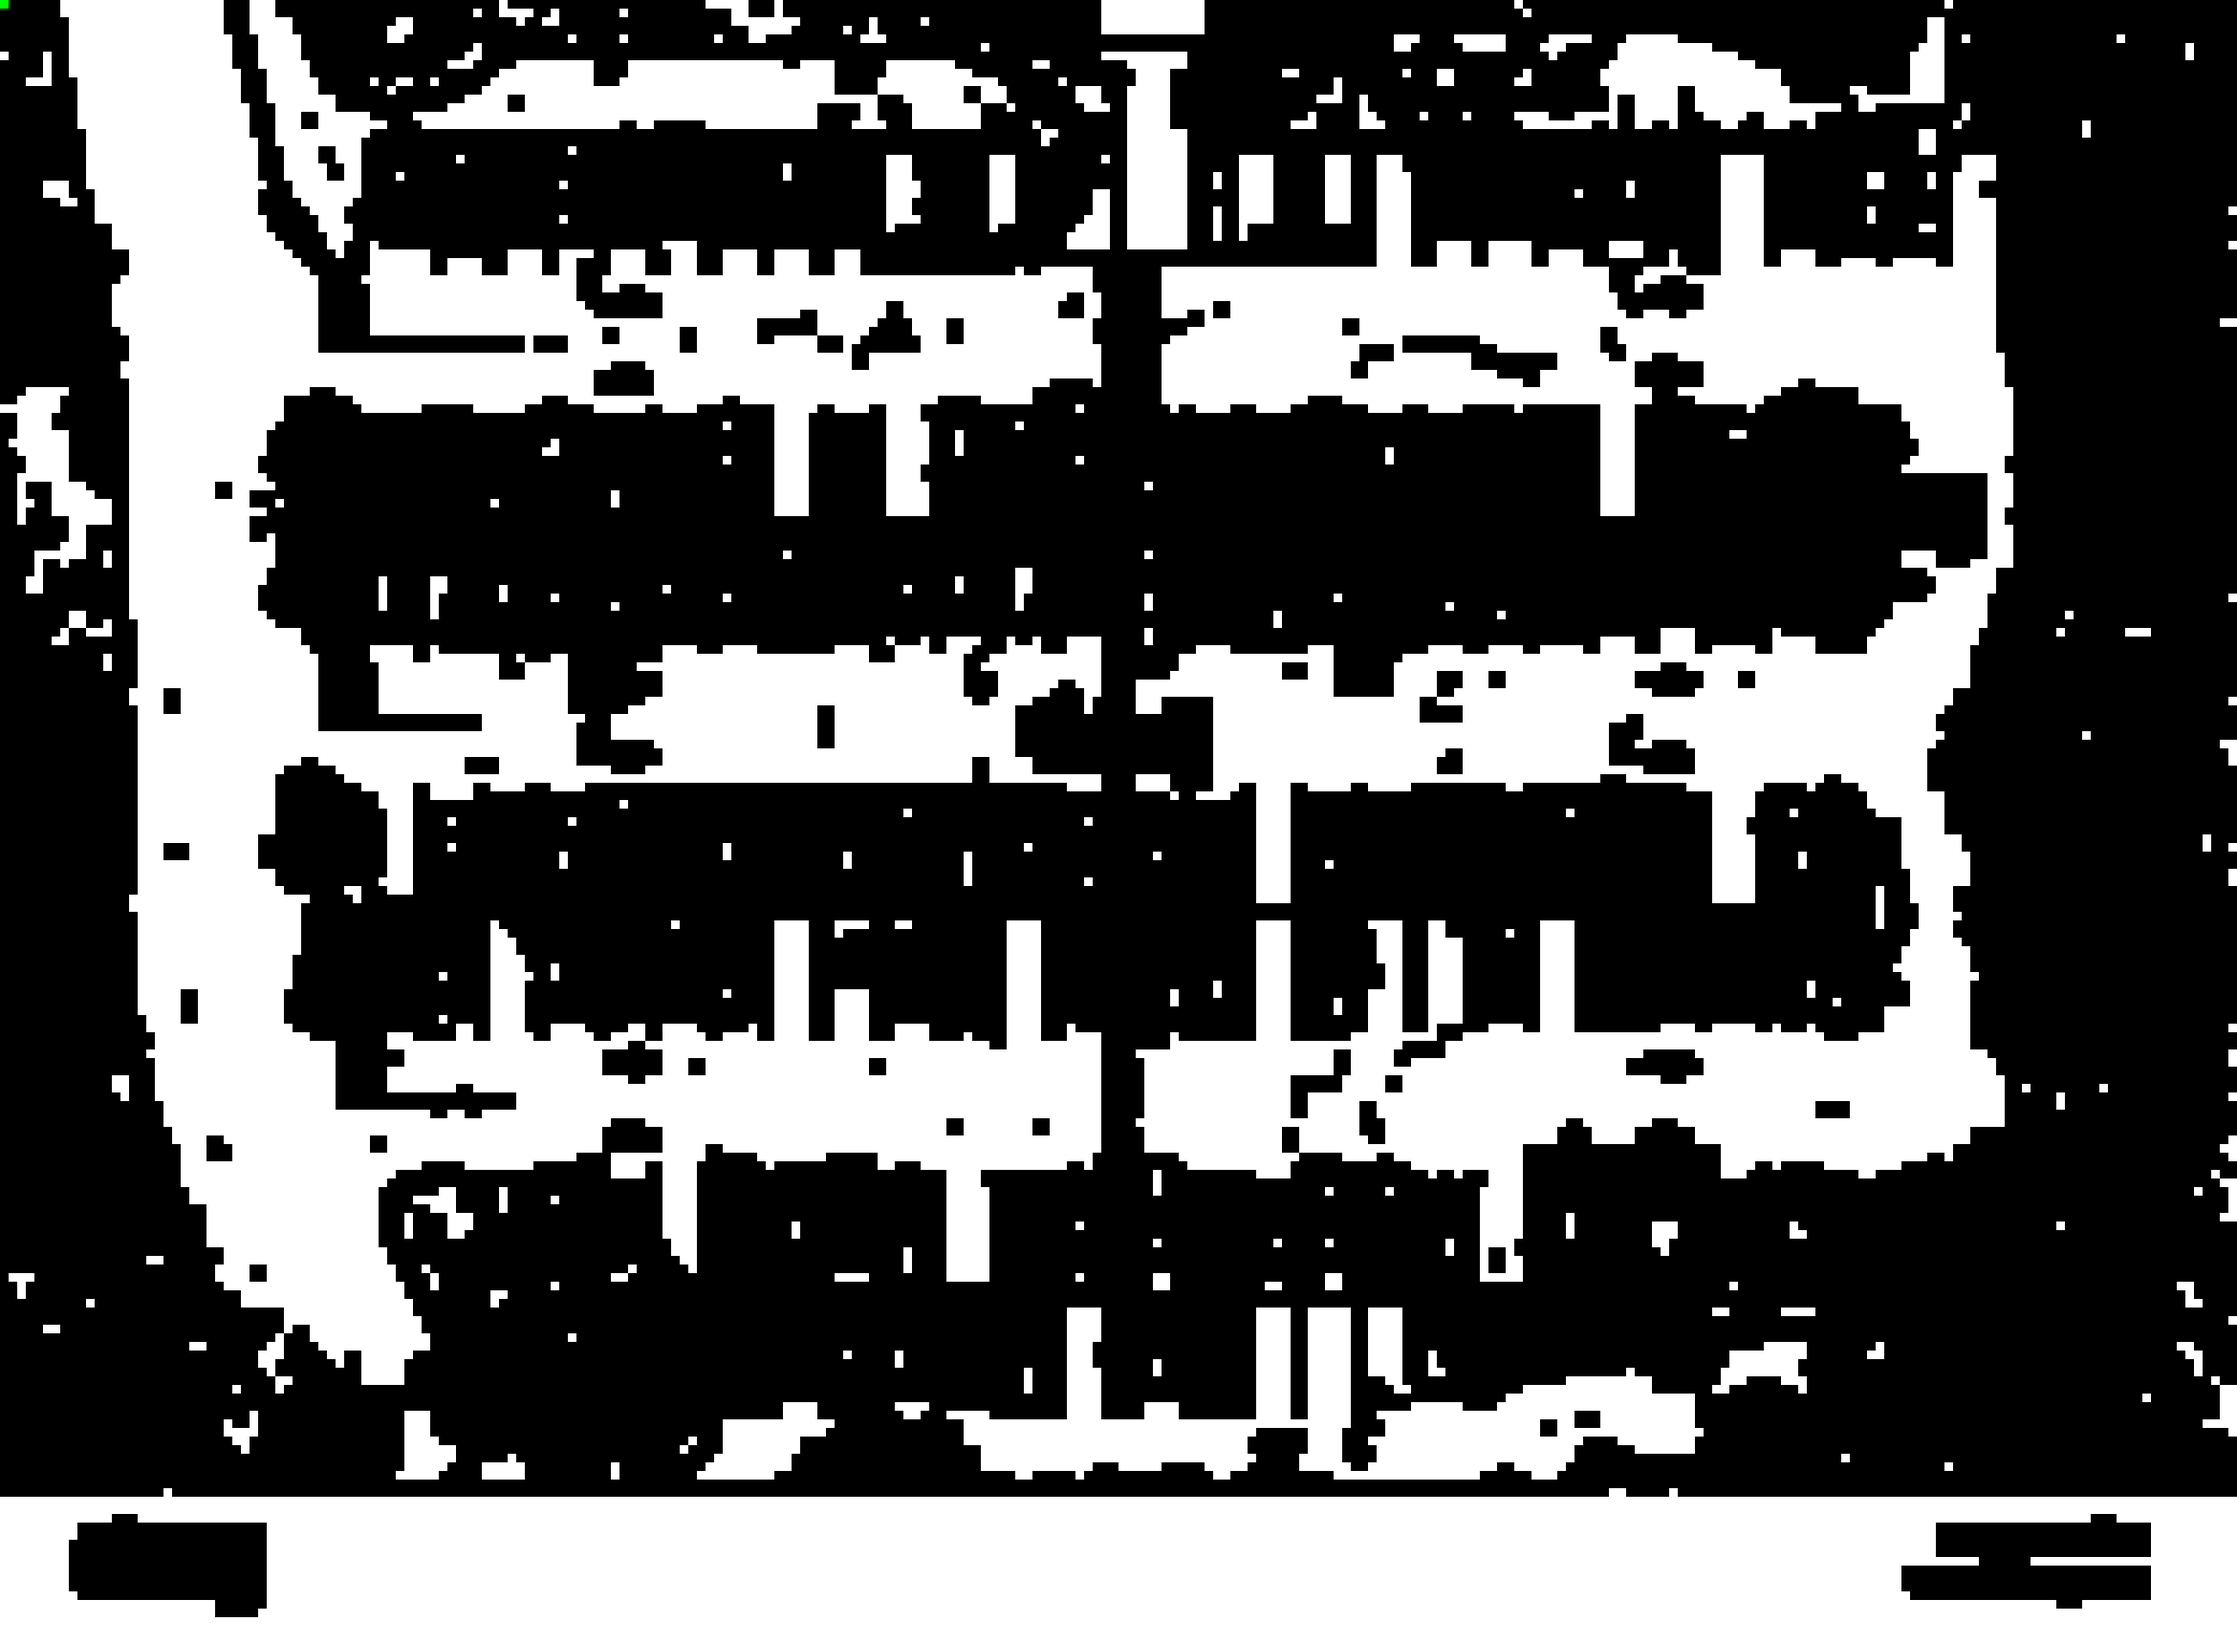
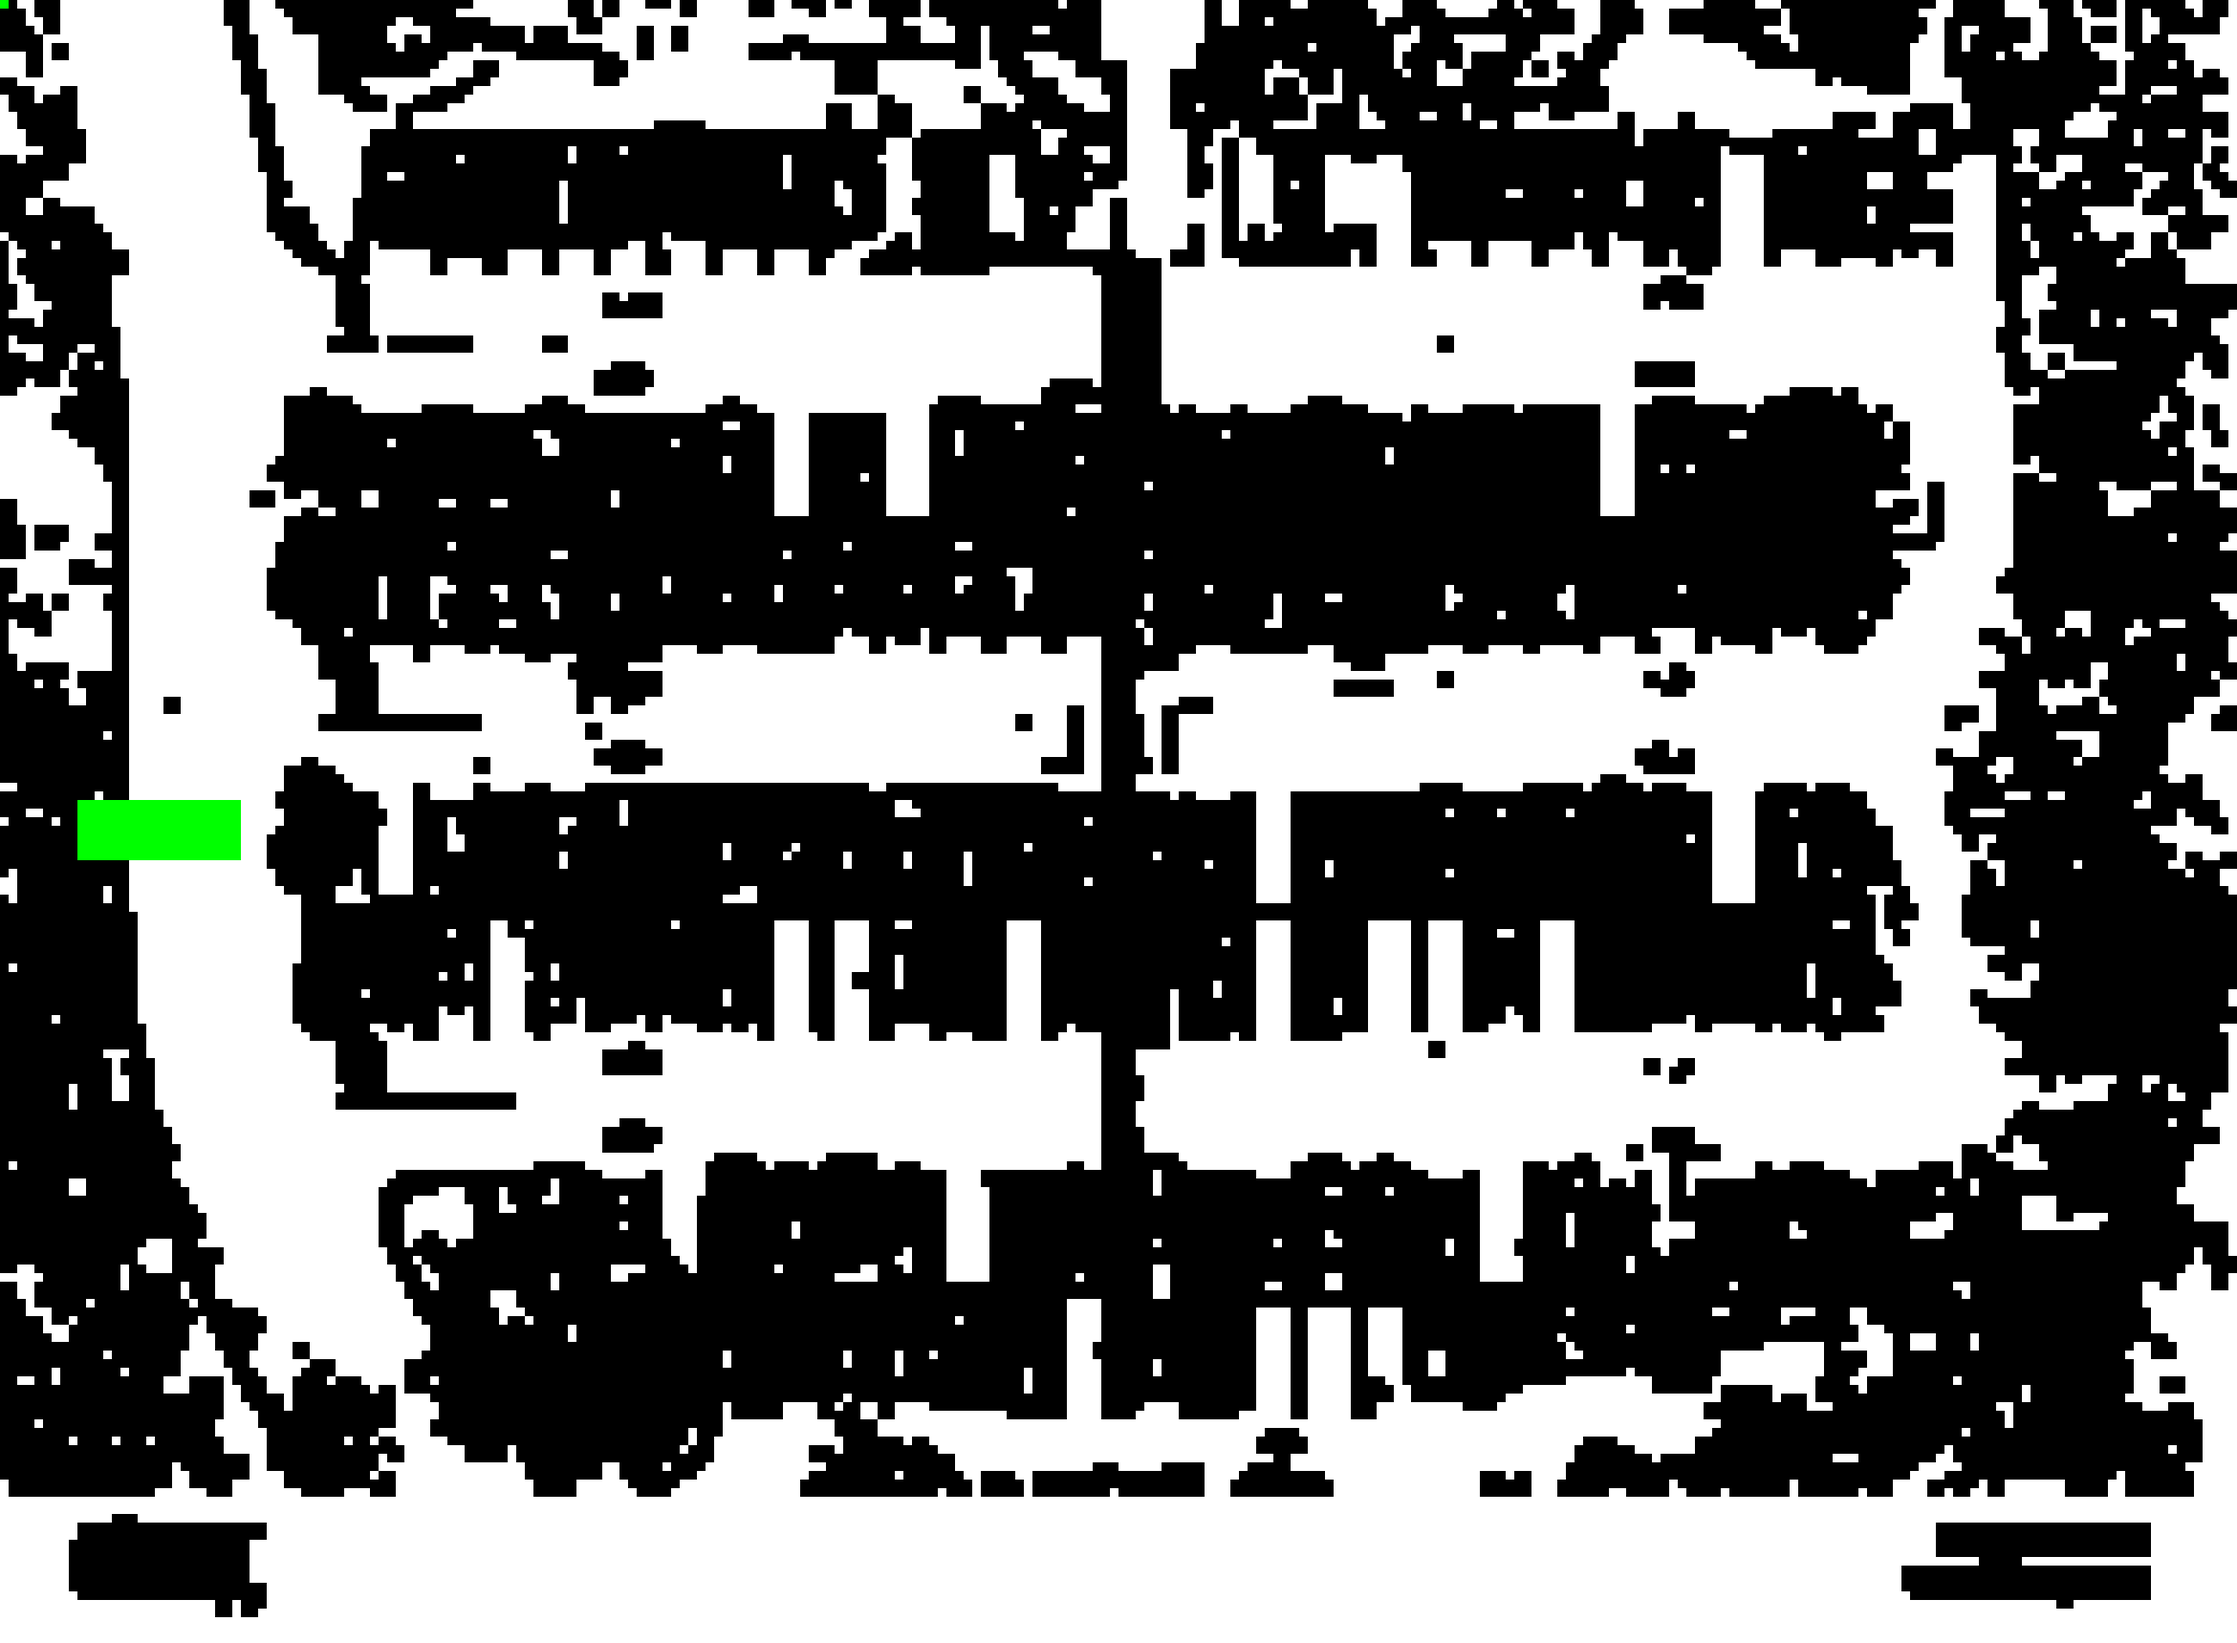
fixed entrance node issue

diff --git a/src/Image_Processor.java b/src/Image_Processor.java
@@ -27,6 +27,11 @@ public class Image_Processor {
 	private static Node[][] grid;
 	private Node entrance;
 	private Pair<Integer,Integer> entranceCoord;
+	private static int entranceMinX;
+	private static int entranceMaxX;
+	private static int entranceMinY;
+	private static int entranceMaxY;
+
 	
 	public Image_Processor() {
 		grid = null;
@@ -45,9 +50,9 @@ public class Image_Processor {
 			//BufferedImage downSampled = downSample(grey, 2); //This step has varying results
 			threshold(grey, 200, i);
 			BufferedImage edge =  edges(grey, 30, i);
-//			BufferedImage filtered = medianFilter(edge, i);
+			BufferedImage filtered = medianFilter(edge, i);
 //			downSample(filtered, 2, i);
-			grid = processor.createNodes(edge, 5, processor.entranceCoord.getKey(), processor.entranceCoord.getValue(), 10, 0.005);
+			grid = processor.createNodes(filtered, 5, processor.entranceCoord.getKey(), processor.entranceCoord.getValue(), 10, 0.005);
 			
 		    BufferedImage visual = visualizeGrid(grid, 10);
 		    File outputfile = new File("output/grid_result_" + i + ".png");
@@ -86,12 +91,17 @@ public class Image_Processor {
 			int centerX = (maxX + minX)/2;
 			int centerY = (maxY + minY)/2;
 			
+			entranceMinX = minX;
+			entranceMaxX = maxX;
+			entranceMinY = minY;
+			entranceMaxY = maxY;
+			
 			entranceCoord = new Pair<Integer, Integer> (centerX,centerY);
 			System.out.println("Entrance coords: (" + entranceCoord.getKey() + "," + entranceCoord.getValue() + ")");
 		}
 		else {
 			System.err.println("Image Processor: No entrance found");
-		}
+		}	
 	}
 	
 	
@@ -214,6 +224,7 @@ public class Image_Processor {
 	public static BufferedImage edges(BufferedImage greyImage, int threshold, int i) {
 		try {
 			BufferedImage edgeImage = new BufferedImage(greyImage.getWidth(), greyImage.getHeight(), BufferedImage.TYPE_BYTE_BINARY);
+
 			for(int y = 0; y < greyImage.getHeight() -1; y++) {
 				for(int x = 0; x < greyImage.getWidth() -1; x++) {
 					int current = new Color(greyImage.getRGB(x, y)).getRed();
@@ -326,6 +337,7 @@ public class Image_Processor {
 	public Node[][] createNodes(BufferedImage image, int scale, int entranceX, int entranceY, int blockSize, double edgePercentage) {	
 		int width = image.getWidth();
 		int height = image.getHeight();
+		int buffer = 10;
 		grid = new Node[height/scale][width/scale];
 		
 		int entranceGridX = Math.round((float) entranceX/scale);
@@ -335,6 +347,14 @@ public class Image_Processor {
 		for(int y = 0; y < height/scale; y++) {
 			for(int x = 0; x < width/scale; x++) {
 				int edgeCounter = 0;
+				int startX = x * scale;
+	            int startY = y * scale;
+				if (startX >= (entranceMinX - buffer) && startX <= (entranceMaxX + buffer) &&
+		                startY >= (entranceMinY - buffer) && startY <= (entranceMaxY + buffer)) {
+		                grid[y][x] = new Node(x, y, Node.NodeType.ENTRANCE, false);
+		                continue;
+		            }
+				
 				for(int by = 0; by < blockSize; by++) {
 					for(int bx = 0; bx < blockSize; bx++) {
 						int pixelX = x * scale + bx;
